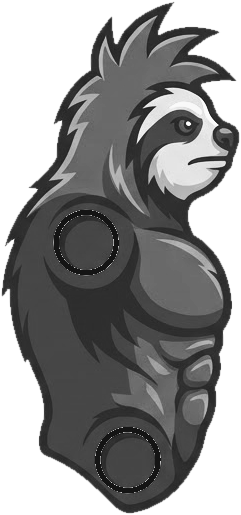
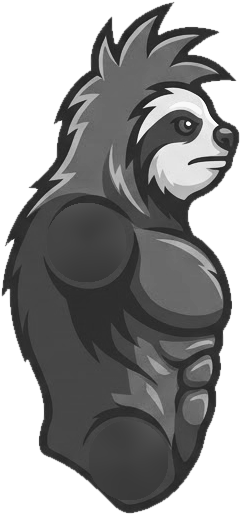
Beta: Faultier-Puppe natürlicher (hängende Arme, flache Hand, Schatten)
Pause zeigt hängende Arme aus dem neuen Zusatzblatt statt nach unten
gedrehter T-Pose-Arme (wirkten ausgekugelt). Liegestütz stützt sich auf
eine flach liegende Hand. Weicher Schatten statt Bodenlinie, Gelenk-
Pfannen am Seitenrumpf mit Fell zugemalt. Beta-Cache v29.

Claude-Session: https://claude.ai/code/session_017ZxJ7zC71p5pzMfEXr2XL4

Changed region(s): [[0.2033, 0.4039, 0.4938, 0.5592], [0.3776, 0.8078, 0.668, 0.9631]]

diff --git a/beta/sloth-rig.js b/beta/sloth-rig.js
@@ -9,7 +9,7 @@
 const SLOTH_RIG_BASE = '../assets/sloth/rig/';
 
 /* PARTS:BEGIN */
-const SLOTH_PARTS = {"front_head":[510,53,696,293],"front_torso":[456,248,745,582],"front_uarm_l":[296,251,478,388],"front_uarm_r":[723,251,904,388],"front_farm_l":[51,288,294,400],"front_farm_r":[907,288,1150,400],"front_thigh_l":[439,516,582,697],"front_thigh_r":[629,516,773,697],"front_tail":[566,584,643,725],"front_calf_l":[444,678,569,866],"front_calf_r":[643,679,768,866],"back_head":[510,53,696,293],"back_torso":[455,247,745,622],"back_uarm_l":[300,251,478,388],"back_uarm_r":[723,251,900,388],"back_farm_l":[163,288,294,396],"back_farm_r":[906,288,1039,396],"back_elbow_l":[267,315,319,367],"back_elbow_r":[881,314,934,367],"back_grip_l":[195,606,314,813],"back_grip_r":[899,606,1018,813],"back_thigh_l":[439,567,571,697],"back_thigh_r":[641,562,773,697],"back_tail":[566,619,643,741],"back_calf_l":[444,678,569,866],"back_calf_r":[643,678,768,866],"side_torso":[458,53,699,568],"side_tail":[372,453,473,535],"side_uarm":[791,80,910,268],"side_uarm_far":[791,80,910,268],"side_elbow":[811,261,857,307],"side_elbow_far":[811,261,857,307],"side_farm":[770,320,959,400],"side_farm_far":[770,320,959,400],"side_hand":[990,449,1166,539],"side_hand_far":[990,449,1166,539],"side_thigh":[629,516,773,687],"side_thigh_far":[629,516,773,687],"side_knee":[721,652,768,700],"side_knee_far":[721,652,768,700],"side_calf":[1020,689,1180,854],"side_calf_far":[1020,689,1180,854],"side_fist":[59,109,404,284],"side_fist_far":[59,109,404,284]};
+const SLOTH_PARTS = {"front_head":[510,53,696,293],"front_torso":[456,248,745,582],"front_uarm_l":[296,251,478,388],"front_uarm_r":[723,251,904,388],"front_farm_l":[51,288,294,400],"front_farm_r":[907,288,1150,400],"front_thigh_l":[439,516,582,697],"front_thigh_r":[629,516,773,697],"front_tail":[566,584,643,725],"front_calf_l":[444,678,569,866],"front_calf_r":[643,679,768,866],"back_head":[510,53,696,293],"back_torso":[455,247,745,622],"back_uarm_l":[300,251,478,388],"back_uarm_r":[723,251,900,388],"back_farm_l":[163,288,294,396],"back_farm_r":[906,288,1039,396],"back_elbow_l":[267,315,319,367],"back_elbow_r":[881,314,934,367],"back_grip_l":[195,606,314,813],"back_grip_r":[899,606,1018,813],"back_thigh_l":[439,567,571,697],"back_thigh_r":[641,562,773,697],"back_tail":[566,619,643,741],"back_calf_l":[444,678,569,866],"back_calf_r":[643,678,768,866],"front_uarm2_l":[79,99,258,555],"front_uarm2_r":[377,99,531,555],"front_farm2_l":[681,101,861,612],"front_farm2_r":[951,101,1131,612],"side_torso":[458,53,699,568],"side_tail":[372,453,473,535],"side_uarm":[791,80,910,268],"side_uarm_far":[791,80,910,268],"side_elbow":[811,261,857,307],"side_elbow_far":[811,261,857,307],"side_farm":[770,320,959,400],"side_farm_far":[770,320,959,400],"side_hand":[990,449,1166,539],"side_hand_far":[990,449,1166,539],"side_thigh":[629,516,773,687],"side_thigh_far":[629,516,773,687],"side_knee":[721,652,768,700],"side_knee_far":[721,652,768,700],"side_calf":[1020,689,1180,854],"side_calf_far":[1020,689,1180,854],"side_fist":[59,109,404,284],"side_fist_far":[59,109,404,284],"side_flat":[624,706,893,825],"side_flat_far":[624,706,893,825]};
 /* PARTS:END */
 
 // Gelenkpunkte in Vorlagen-Koordinaten (1200 x 896): [nah, fern]
@@ -26,6 +26,11 @@ const SLOTH_JOINTS = {
     thigh_r: [[668, 540], [702, 682]],
     calf_r: [[692, 700], [692, 835]],
     tail: [[604, 592], [600, 715]],
+    // hängende Arme (Zusatzblatt, grösser gezeichnet)
+    uarm2_l: [[160, 168], [212, 500], 0.5],
+    farm2_l: [[760, 160], [770, 585], 0.5],
+    uarm2_r: [[450, 168], [470, 500], 0.5],
+    farm2_r: [[1045, 160], [1035, 585], 0.5],
   },
   back: {
     torso: [[606, 560], [606, 282]],
@@ -50,13 +55,14 @@ const SLOTH_JOINTS = {
     farm: [[806, 360], [948, 360]],
     hand: [[1000, 492], [1160, 494]],
     fist: [[100, 205], [313, 195], 0.5],
+    flat: [[655, 766], [880, 792], 0.62],
     thigh: [[668, 548], [745, 676]],
     calf: [[1068, 702], [1064, 812]],
   },
 };
 // Anschlusspunkte am Rumpf
 const SLOTH_ANCHORS = {
-  front: { neck: [600, 282], sh_l: [470, 318], sh_r: [730, 318], hip_l: [532, 545], hip_r: [668, 545], tail: [602, 585] },
+  front: { neck: [600, 282], sh_l: [470, 318], sh_r: [730, 318], shd_l: [474, 322], shd_r: [726, 322], hip_l: [532, 545], hip_r: [668, 545], tail: [602, 585] },
   back: { neck: [603, 282], sh_l: [470, 318], sh_r: [732, 318], hip_l: [520, 584], hip_r: [686, 584], tail: [604, 616] },
   side: { shoulder: [544, 295], hip: [586, 513], tail: [505, 505] },
 };
@@ -64,6 +70,7 @@ const SLOTH_ANCHORS = {
 const SLOTH_ORDER = {
   front: ['tail', 'calf_l', 'calf_r', 'thigh_l', 'thigh_r', 'farm_l', 'farm_r', 'uarm_l', 'uarm_r', 'torso', 'head'],
   back: ['calf_l', 'calf_r', 'thigh_l', 'thigh_r', 'farm_l', 'farm_r', 'uarm_l', 'uarm_r', 'elbow_l', 'elbow_r', 'torso', 'tail', 'head', 'grip_l', 'grip_r'],
+  frontDown: ['tail', 'calf_l', 'calf_r', 'thigh_l', 'thigh_r', 'torso', 'farm_l', 'farm_r', 'uarm_l', 'uarm_r', 'head'],
   side: ['farm_far', 'hand_far', 'uarm_far', 'elbow_far', 'calf_far', 'thigh_far', 'knee_far', 'tail', 'torso', 'calf', 'thigh', 'knee', 'farm', 'hand', 'uarm', 'elbow'],
 };
 
@@ -73,16 +80,17 @@ const STAND_LEGS = { thigh_l: 100, calf_l: 91, thigh_r: 80, calf_r: 89 };
 /* view: Vorlage · pin: fester Punkt ('hands' = Mitte der Hände, 'feet';
    Seite: 'wrist', 'ankle') · dur: Sekunden pro Durchgang · keys: Verlauf
    a(0) -> b(1) über die Zeit · bar: Stange an den Händen · floor: Boden-
-   linie (y relativ zum festen Punkt) · label: Bildbeschreibung.
+   schatten (y relativ zum festen Punkt) · label: Bildbeschreibung.
    Seitenansicht: Winkel uarm/farm/hand/thigh/calf gelten für die vordere
    Seite, f… (fuarm, ffarm, …) für die hintere (sonst gleich wie vorne);
-   grip: 'fist' statt offener Hand; solve: Rumpfwinkel so wählen, dass die
+   grip: 'fist' (Faust) / 'flat' (flach am Boden) statt offener Hand;
+   Vorne: arms: 'down' = hängende Arme aus dem Zusatzblatt; solve: Rumpfwinkel so wählen, dass die
    Zehen auf Handhöhe liegen (Stütz), mit toe = Abstand Knöchel–Boden. */
 const SLOTH_POSES = {
   pushup: {
-    view: 'side', pin: 'wrist', dur: 2.4, floor: 36, solve: { toe: 60 }, label: 'Liegestütz',
+    view: 'side', pin: 'wrist', dur: 2.6, floor: 34, solve: { toe: 60 }, grip: 'flat', label: 'Liegestütz',
     a: { uarm: 92, farm: 90, hand: 0 },
-    b: { uarm: 150, farm: 48, hand: 0 },
+    b: { uarm: 146, farm: 52, hand: 0 },
   },
   squat: {
     view: 'side', pin: 'ankle', dur: 2.8, floor: 46, label: 'Kniebeuge',
@@ -101,9 +109,9 @@ const SLOTH_POSES = {
     b: { torso: -90, head: -86, uarm_l: -198, farm_l: -100, grip_l: -95, uarm_r: 18, farm_r: -80, grip_r: -85, thigh_l: 108, calf_l: 100, thigh_r: 72, calf_r: 80, tail: -6 },
   },
   rest: {
-    view: 'front', pin: 'feet', dur: 4.2, label: 'Faultier steht und atmet durch',
-    a: { torso: -90, head: -90, uarm_l: 108, farm_l: 96, uarm_r: 72, farm_r: 84, ...STAND_LEGS, tail: 0 },
-    b: { torso: -90, head: -93, uarm_l: 104, farm_l: 94, uarm_r: 76, farm_r: 86, ...STAND_LEGS, tail: 0 },
+    view: 'front', pin: 'feet', dur: 4.2, floor: 26, arms: 'down', label: 'Faultier steht und atmet durch',
+    a: { torso: -90, head: -90, uarm_l: 98, farm_l: 93, uarm_r: 82, farm_r: 87, ...STAND_LEGS, tail: 0 },
+    b: { torso: -90, head: -92, uarm_l: 96, farm_l: 92, uarm_r: 84, farm_r: 88, ...STAND_LEGS, tail: 0 },
   },
   wave: {
     view: 'front', pin: 'feet', dur: 1.4, label: 'Faultier winkt',
@@ -133,7 +141,7 @@ function slothRigBuild(pose) {
   const ball = (img, P) => { const b = SLOTH_PARTS[img]; return { img, P, r: 0, p: [(b[0] + b[2]) / 2, (b[1] + b[3]) / 2], k: 1 }; };
 
   function side(s) {
-    const q = {}, hk = pose.grip === 'fist' ? 'fist' : 'hand', D = pose.depth || [-14, -8];
+    const q = {}, hk = pose.grip || 'hand', D = pose.depth || [-14, -8];
     const t = q.torso = place('torso', [0, 0], s.torso);
     q.tail = place('tail', t.map(A.tail), s.torso + a0('tail') - a0('torso') + (s.tail || 0));
     for (const far of [false, true]) {
@@ -155,9 +163,11 @@ function slothRigBuild(pose) {
     const t = q.torso = place('torso', [0, 0], s.torso);
     q.head = place('head', t.map(A.neck), s.head);
     q.tail = place('tail', t.map(A.tail), s.torso + 180 + (s.tail || 0));
+    const down = pose.arms === 'down';
     for (const x of ['l', 'r']) {
-      q['uarm_' + x] = place('uarm_' + x, t.map(A['sh_' + x]), s['uarm_' + x]);
-      q['farm_' + x] = place('farm_' + x, q['uarm_' + x].end, s['farm_' + x]);
+      const ua = down ? 'uarm2_' + x : 'uarm_' + x, fa = down ? 'farm2_' + x : 'farm_' + x;
+      q['uarm_' + x] = place(ua, t.map(A[(down ? 'shd_' : 'sh_') + x]), s['uarm_' + x]);
+      q['farm_' + x] = place(fa, q['uarm_' + x].end, s['farm_' + x]);
       if (J['grip_' + x]) q['grip_' + x] = place('grip_' + x, q['farm_' + x].end, s['grip_' + x]);
       q['thigh_' + x] = place('thigh_' + x, t.map(A['hip_' + x]), s['thigh_' + x]);
       q['calf_' + x] = place('calf_' + x, q['thigh_' + x].end, s['calf_' + x]);
@@ -212,7 +222,7 @@ function slothRigPrepare(name) {
     for (const k in pose.a) s[k] = pose.a[k] + ((pose.b[k] ?? pose.a[k]) - pose.a[k]) * m;
     frames.push(build(s));
   }
-  const order = SLOTH_ORDER[pose.view];
+  const order = SLOTH_ORDER[pose.view === 'front' && pose.arms === 'down' ? 'frontDown' : pose.view];
   // Umriss über alle Stellungen -> viewBox
   let x0 = Infinity, y0 = Infinity, x1 = -Infinity, y1 = -Infinity;
   for (const f of frames) for (const key of order) {
@@ -248,7 +258,7 @@ function slothRigPrepare(name) {
     const w = box[2] * 0.96;
     extra = `<rect class="sloth-rig-bar" x="${(-w / 2).toFixed(0)}" y="14" width="${w.toFixed(0)}" height="26" rx="13"/>`;
   }
-  if (pose.floor != null) extra = `<line class="sloth-rig-floor" x1="${box[0]}" x2="${box[0] + box[2]}" y1="${pose.floor}" y2="${pose.floor}"/>`;
+  if (pose.floor != null) extra = `<ellipse class="sloth-rig-shadow" cx="${n(box[0] + box[2] / 2)}" cy="${pose.floor}" rx="${n(box[2] * (pose.view === 'side' ? 0.46 : 0.34))}" ry="${n(Math.max(10, box[2] * 0.035))}"/>`;
   slothRigCache[name] = { box, body: extra + parts };
   return slothRigCache[name];
 }

diff --git a/beta/styles.css b/beta/styles.css
@@ -1508,7 +1508,7 @@ body.has-fs-dock { padding-bottom: calc(62px + 210px + var(--safe-bottom)); }
 /* ---------- Faultier-Puppe (sloth-rig.js): SVG aus Einzelteilen ---------- */
 .sloth-rig { display: block; overflow: visible; }
 .sloth-rig-bar { fill: #3b4048; stroke: #0a0a0a; stroke-width: 5; }
-.sloth-rig-floor { stroke: var(--line); stroke-width: 6; stroke-linecap: round; }
+.sloth-rig-shadow { fill: #000; opacity: .45; }
 .fb-stage-figure .sloth-img, .fb-phase-figure .sloth-img { max-height: 24vh; width: auto; }
 .timeline-thumb .sloth-img { width: 100%; height: 100%; }
 .fb-phase-figure .sloth-img { width: 100%; height: auto; max-height: none; }

diff --git a/beta/sw.js b/beta/sw.js
@@ -1,4 +1,4 @@
-const CACHE_NAME = 'pincho-beta-v28';
+const CACHE_NAME = 'pincho-beta-v29';
 const SHELL_ASSETS = [
   './', './index.html', './styles.css', './data.js', './firebase.js', './sloth-rig.js', './app.js',
   './manifest.json', '../assets/icon-512-any.png', '../assets/icon-192-any.png', '../assets/icon-512-transparent.png', '../assets/icon-512-maskable.png', '../assets/icon-beta-192-any.png', '../assets/icon-beta-512-maskable.png',

diff --git a/tools/sloth-rig/build.py b/tools/sloth-rig/build.py
@@ -31,11 +31,14 @@ SIDE = [
     ('side.jpg', {'torso': [35], 'tail': [85], 'uarm': [36], 'elbow': [39], 'farm': [55], 'hand': [84],
                   'thigh': [89], 'knee': [132], 'calf': [172]}),
     ('side_extra.jpg', {'fist': [32]}),
+    ('arms_extra.jpg', {'flat': [104]}),
 ]
-SIDE_FAR = ['uarm', 'elbow', 'farm', 'hand', 'fist', 'thigh', 'knee', 'calf']
+# Vorderansicht mit hängenden Armen (Zusatzblatt)
+FRONT_EXTRA = ('arms_extra.jpg', {'uarm2_l': [74], 'uarm2_r': [75], 'farm2_l': [76], 'farm2_r': [77]})
+SIDE_FAR = ['uarm', 'elbow', 'farm', 'hand', 'fist', 'flat', 'thigh', 'knee', 'calf']
 FAR_DARK = 0.5
 # Weisse Ringe der Gelenk-Pfannen am Rumpf dunkel füllen: (Mitte, Radius)
-SIDE_SOCKETS = [((544, 295), 36), ((586, 513), 36)]
+SIDE_SOCKETS = [((544, 295), 40), ((586, 513), 40)]
 
 # Schwarzweiss-Kurve: Helligkeit -> Grauwert (Stützpunkte bei 0, .25, .5, .75, 1)
 CURVE = [0.06, 0.30, 0.68, 0.96, 1.0]
@@ -57,10 +60,15 @@ def cut(rgb, lab, ids, g, out, fix=None, dark=1.0):
     m = ndi.binary_fill_holes(np.isin(lab, ids))
     g = g.astype(float)
     if fix:
+        # Gelenk-Pfannen mit dem umgebenden Fell zumalen (normierte Unschärfe von aussen nach innen)
         yy, xx = np.mgrid[0:g.shape[0], 0:g.shape[1]]
+        hole = np.zeros(g.shape, bool)
         for (cx, cy), r in fix:
-            ring = (np.hypot(xx - cx, yy - cy) < r) & (rgb.min(2) > 150)
-            g[ring] = 20
+            hole |= np.hypot(xx - cx, yy - cy) < r
+        known = (~hole & m).astype(float)
+        num = ndi.gaussian_filter(g * known, 14); den = ndi.gaussian_filter(known, 14)
+        fill = num / np.maximum(den, 1e-3)
+        g[hole & m] = fill[hole & m]
     g = np.clip(g * dark, 0, 255).astype(np.uint8)
     mask = Image.fromarray((m * 255).astype(np.uint8)).filter(ImageFilter.MinFilter(3)).filter(ImageFilter.GaussianBlur(0.6))
     box = mask.getbbox()
@@ -76,6 +84,10 @@ def main():
         g = gray(rgb)
         for name, ids in comps.items():
             parts[f'{view}_{name}'] = cut(rgb, lab, ids, g, os.path.join(OUT, f'{view}_{name}.png'))
+    rgb, lab = label(os.path.join(HERE, 'sheets', FRONT_EXTRA[0]))
+    g = gray(rgb)
+    for name, ids in FRONT_EXTRA[1].items():
+        parts[f'front_{name}'] = cut(rgb, lab, ids, g, os.path.join(OUT, f'front_{name}.png'))
     for fname, comps in SIDE:
         rgb, lab = label(os.path.join(HERE, 'sheets', fname))
         g = gray(rgb)

diff --git a/tools/sloth-rig/README.md b/tools/sloth-rig/README.md
@@ -15,6 +15,7 @@ python3 tools/sloth-rig/build.py --list   # Teil-Nummern der Vorlagen anzeigen
 - `sheets/back.jpg`: Rückansicht mit Greifhänden und Ellbogen-Kugeln
 - `sheets/side.jpg` + `sheets/side_extra.jpg`: Seitenansicht (Blick nach rechts),
   Fäuste und Füsse im Zusatzblatt. Hintere Arme/Beine = abgedunkelte Kopie (`*_far.png`)
+- `sheets/arms_extra.jpg`: hängende Arme (vorne) und flache Hand (Seite)
 - `sheets/equipment/`: Geräte, Maschinen, Kleinteile (für Etappe 2, noch nicht zerlegt)
 
 Die Vorlagen müssen weissen Hintergrund haben und die Teile durch weisse
